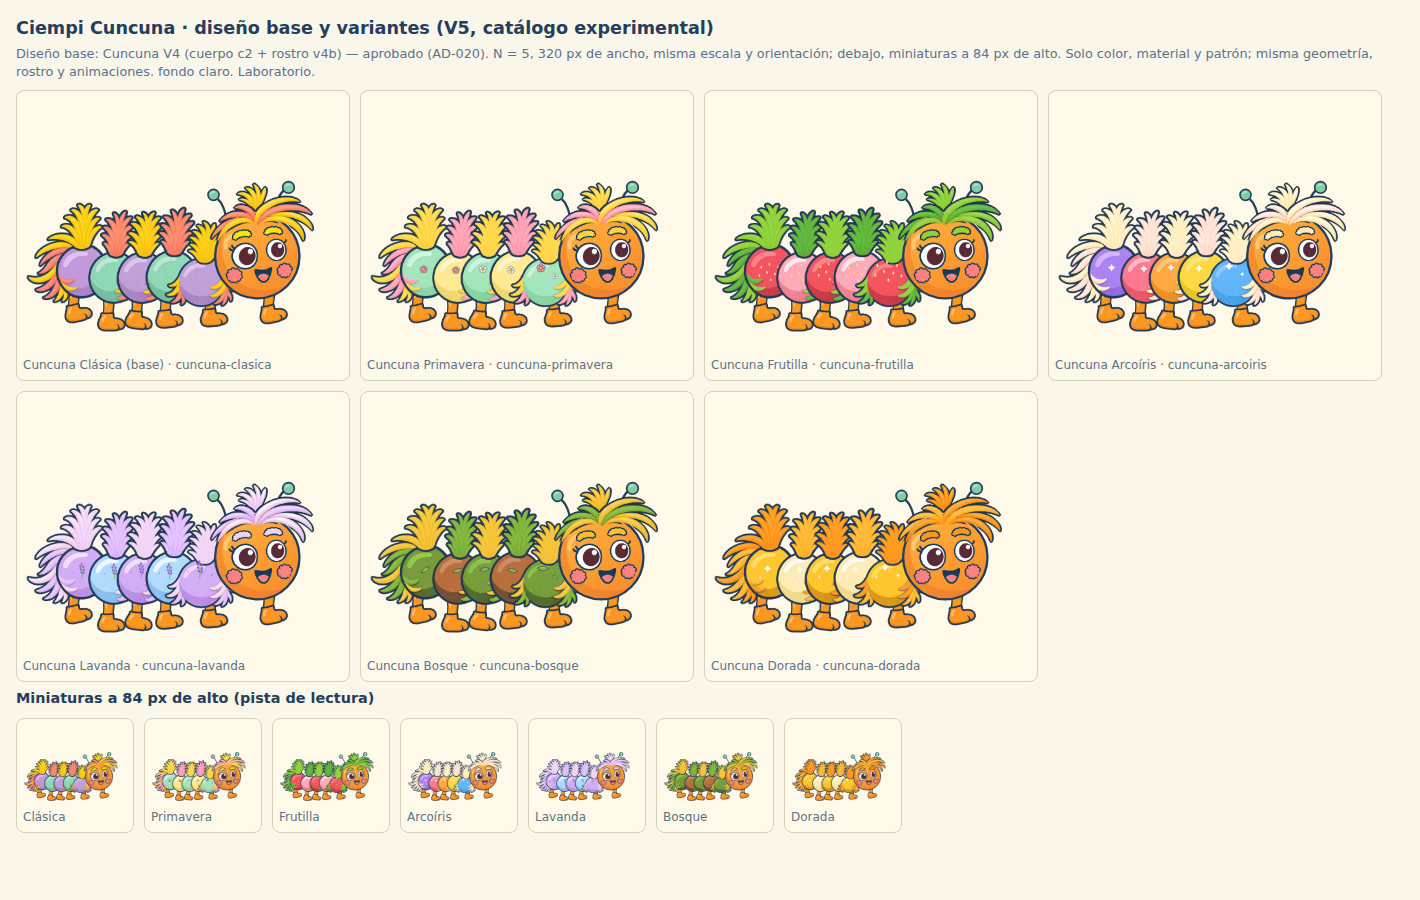
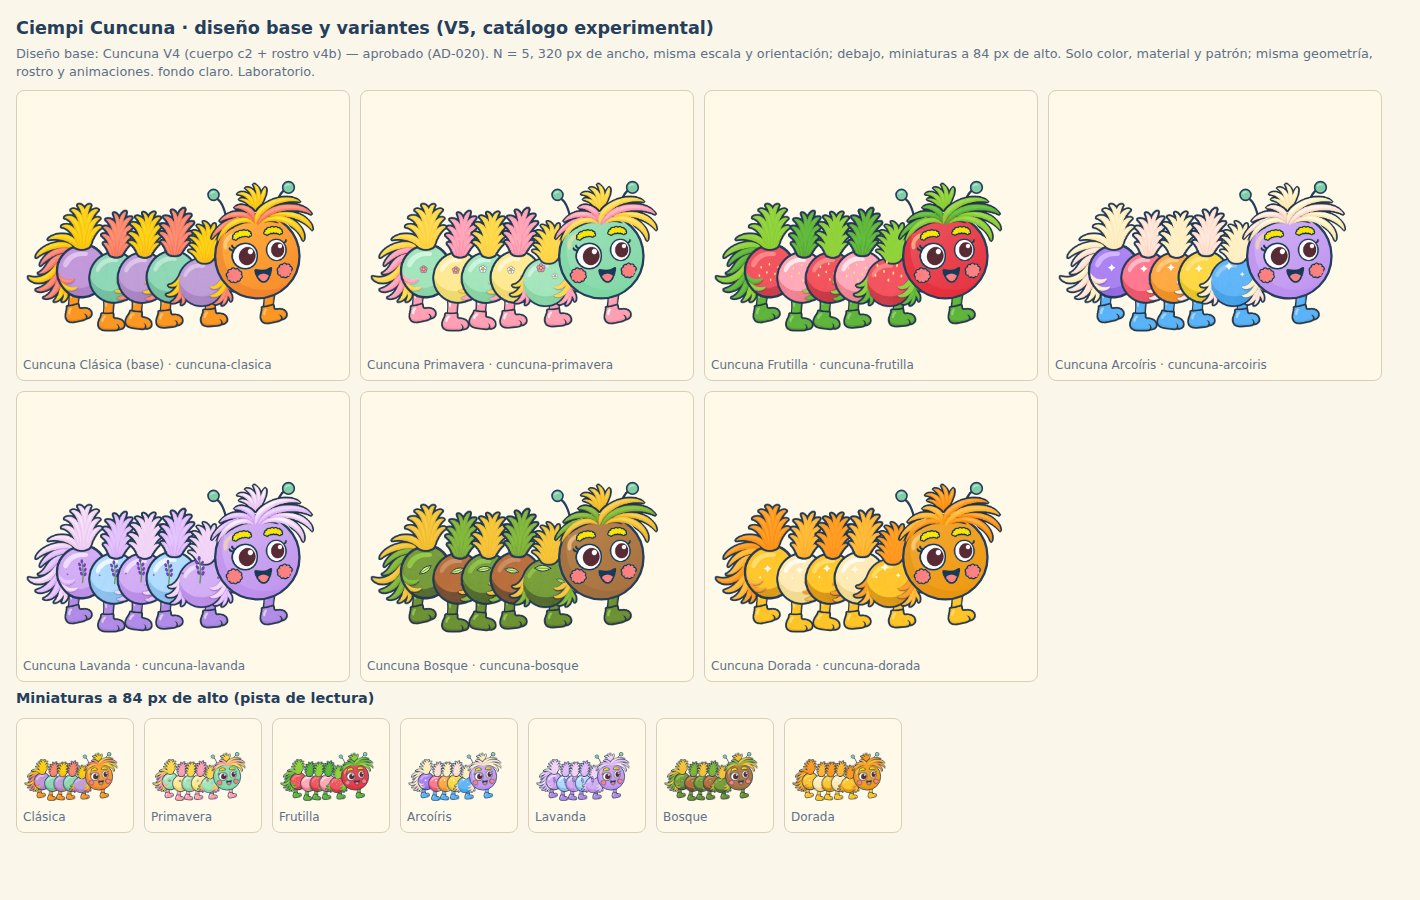
V5 variantes r2: torretas k3 teñidas por variante, cabeza y patas de la Cuncuna teñidas, patrones Bosque/Lavanda reforzados; láminas r1 conservadas

diff --git a/docs/rediseno-ciempi/laboratorio-transformaciones/variantes.js b/docs/rediseno-ciempi/laboratorio-transformaciones/variantes.js
@@ -23,10 +23,12 @@ const BANDAS = {
   cuncuna: [[220, 330, 'lila'], [95, 220, 'menta'], [40, 85, 'amarillo'], [330, 360, 'salmon'], [0, 20, 'salmon'], [20, 40, 'naranja']],
   serpiente: [[15, 45, 'crema', 0.7, 1], [330, 360, 'rojo'], [0, 15, 'rojo'], [15, 80, 'amarillo']],
   camaleon: [[15, 55, 'vientre', 0.72, 1], [300, 360, 'rosa'], [0, 15, 'rosa'], [15, 55, 'amarillo'], [55, 210, 'piel']],
-  torreta: [[300, 360, 'anillo'], [0, 18, 'anillo'], [18, 60, 'borde']],
+  // Torretas k3: anillos rosa/magenta y sus líneas rojas (h < 12) frente al caparazón naranja y el párpado (h 12–60).
+  torreta: [[300, 360, 'anillo'], [0, 12, 'anillo'], [12, 60, 'borde']],
 }
 /** Qué claves se tiñen en el rostro IA v4b (los ojos nunca): hocico y cejas del Dragón, cejas de la Cuncuna. */
-const CLAVES_ROSTRO = { dragon: ['escamas', 'vientre'], cuncuna: ['amarillo'] }
+// La Cuncuna no tiñe nada del rostro: ojos, cejas, mejillas y boca quedan como en el v4b aprobado.
+const CLAVES_ROSTRO = { dragon: ['escamas', 'vientre'], cuncuna: [] }
 /** Colores de la cabeza vectorial de la base (paleta clásica 0–2 y su sombra). */
 const CABEZA_CLASICA = ['#ffb449', '#ff9e32', '#f58b2d', '#e8752b']
 
@@ -69,24 +71,24 @@ export const CATALOGO = {
     variantes: [
       { id: 'cuncuna-clasica', nombre: 'Cuncuna Clásica', base: true, producto: prod('Ciempi Cuncuna'), diferencias: 'Diseño base aprobado: segmentos lila y menta, mechones amarillo y salmón.' },
       { id: 'cuncuna-primavera', nombre: 'Cuncuna Primavera', producto: prod('Transformación Cuncuna Primavera'),
-        colores: { lila: '#9fe3b8', menta: '#ffe98a', amarillo: '#ffd84a', salmon: '#ff9fb4' },
+        colores: { lila: '#9fe3b8', menta: '#ffe98a', amarillo: '#ffd84a', salmon: '#ff9fb4', naranja: '#ff9fb4' }, cabeza: '#8fdcb0',
         patron: { tipo: 'flores', colores: ['#ffffff', '#ff8fb0', '#ffd23a'] }, diferencias: 'Menta y amarillo suave, mechones rosados y florcitas discretas.' },
       { id: 'cuncuna-frutilla', nombre: 'Cuncuna Frutilla', producto: prod('Transformación Cuncuna Frutilla'),
-        colores: { lila: ['#f0505c', '#c1323f'], menta: '#ff9fb0', amarillo: '#8fd03c', salmon: '#5fb23c' },
+        colores: { lila: ['#f0505c', '#c1323f'], menta: '#ff9fb0', amarillo: '#8fd03c', salmon: '#5fb23c', naranja: '#5fb23c' }, cabeza: '#e8434f',
         patron: { tipo: 'semillas', colores: ['#ffe27a'] }, diferencias: 'Rojo frutilla y rosado con pepitas; mechones verdes como hojas.' },
       { id: 'cuncuna-arcoiris', nombre: 'Cuncuna Arcoíris', producto: prod('Transformación Cuncuna Arcoíris'),
-        colores: { amarillo: '#fff0c4', salmon: '#ffe2d2' },
+        colores: { amarillo: '#fff0c4', salmon: '#ffe2d2', naranja: '#5cb2f5' }, cabeza: '#c8a2f2',
         // Orden visible al crecer: cola, B, C, D, A, B… y el frente al final (forma modular: ciclo A,B,C,D tras la cola).
         piezas: { cola: { lila: '#a77ff0' }, 'seg-b': { menta: '#ff6f86' }, 'seg-c': { lila: '#ffa53c' }, 'seg-d': { menta: '#ffd83a' }, 'seg-a': { lila: '#6fd07a' }, frente: { lila: '#5cb2f5' } },
         patron: { tipo: 'destellos', colores: ['#ffffff'], cantidad: 2 }, diferencias: 'Cada segmento de un color del arcoíris, mechones crema.' },
       { id: 'cuncuna-lavanda', nombre: 'Cuncuna Lavanda', producto: prod('Transformación Cuncuna Lavanda'),
-        colores: { lila: '#cfa8f3', menta: '#a9d6fb', amarillo: '#f2d6f6', salmon: '#e0bdfb' },
-        patron: { tipo: 'brotes', colores: ['#8f63d2', '#79b36a'] }, diferencias: 'Lila y celeste pastel con ramitos de lavanda.' },
+        colores: { lila: '#cfa8f3', menta: '#a9d6fb', amarillo: '#f2d6f6', salmon: '#e0bdfb', naranja: '#b08ce6' }, cabeza: '#c9a2f0',
+        patron: { tipo: 'brotes', colores: ['#6f45b8', '#5f9a52'], escala: 1.5 }, diferencias: 'Lila y celeste pastel con ramitos de lavanda.' },
       { id: 'cuncuna-bosque', nombre: 'Cuncuna Bosque', producto: prod('Transformación Cuncuna Bosque'),
-        colores: { lila: ['#73963a', '#4d6b2a'], menta: ['#ad6c3d', '#7a4a2a'], amarillo: '#f2c23a', salmon: '#7fb03c' },
-        patron: { tipo: 'hojas', colores: ['#a6d65c', '#5f8f2e'] }, diferencias: 'Musgo y madera, mechones amarillo cálido y verde, hojitas.' },
+        colores: { lila: ['#73963a', '#4d6b2a'], menta: ['#ad6c3d', '#7a4a2a'], amarillo: '#f2c23a', salmon: '#7fb03c', naranja: '#6b8f34' }, cabeza: '#b07a45',
+        patron: { tipo: 'hojas', colores: ['#d4ef7a', '#5f8f2e'], escala: 1.45 }, diferencias: 'Musgo y madera, mechones amarillo cálido y verde, hojitas.' },
       { id: 'cuncuna-dorada', nombre: 'Cuncuna Dorada', producto: prod('Transformación Cuncuna Dorada'),
-        colores: { lila: ['#ffc425', '#e08a12'], menta: '#ffe9ad', amarillo: '#ff9a1f', salmon: '#ffb631' },
+        colores: { lila: ['#ffc425', '#e08a12'], menta: '#ffe9ad', amarillo: '#ff9a1f', salmon: '#ffb631', naranja: '#ffc425' }, cabeza: '#f0a020',
         patron: { tipo: 'destellos', colores: ['#fffbe6'], cantidad: 3 }, diferencias: 'Oro y crema luminosos, mechones naranja y destellos.' },
     ],
   },
@@ -112,16 +114,16 @@ export const CATALOGO = {
     disenoBase: { id: 'camaleon-v2', nombre: 'Camaleón v2 (cuerpo, patas y boca v2) + ojos k3 «Atardecer»', estado: 'en revisión; ojos k3 elegidos (AD-020)' },
     variantes: [
       { id: 'camaleon-lima', nombre: 'Camaleón Lima', base: true, origen: 'k2a', producto: prod('Transformación Camaleón Lima'),
-        torreta: { borde: '#b6de3e', anillo: '#f06aa8' }, diferencias: 'El diseño actual (k2a): degradado turquesa→lima, casco arcoíris, anillos rosa.' },
+        torreta: { borde: '#b6de3e', anillo: '#2fb5b8' }, diferencias: 'El diseño actual (k2a): degradado turquesa→lima, casco arcoíris, torretas lima con anillos turquesa.' },
       { id: 'camaleon-arcoiris', nombre: 'Camaleón Arcoíris', origen: 'k1', producto: prod('Transformación Camaleón Arcoíris'),
         colores: { rosa: '#fff3c4', amarillo: '#fff3c4' },
         piezas: { cola: { piel: '#f2639a' }, 'seg-a': { piel: '#ff9b3d' }, 'seg-b': { piel: '#f6cf34' }, 'seg-c': { piel: '#6fcf55' }, 'seg-d': { piel: '#33bfb5' }, frente: { piel: '#4fa6ef' },
           casco: { piel: '#6fcf55', rosa: '#f2639a', amarillo: '#ffb43c' } },
-        torreta: { borde: '#b6de3e', anillo: '#ff6f9c' }, diferencias: 'Un color del arcoíris por segmento con lunares crema (k1).' },
+        torreta: { borde: '#b6de3e', anillo: '#4fa6ef' }, diferencias: 'Un color del arcoíris por segmento con lunares crema, torretas con anillos azules (k1).' },
       { id: 'camaleon-tropical', nombre: 'Camaleón Tropical', origen: 'k2', producto: prod('Transformación Camaleón Tropical'),
         colores: { piel: ['#6cc33f', '#3f9636'], rosa: '#ff8a2a', amarillo: '#ffd23a' },
         piezas: { cola: { piel: '#ff8a2a', rosa: '#ffd23a' }, 'cabeza-piel': { piel: '#bde23c' }, casco: { piel: '#7cc943', rosa: '#ff8a2a' } },
-        patron: { tipo: 'franja', colores: ['#fff3b8'] }, torreta: { borde: '#bde23c', anillo: '#3fae3a' }, diferencias: 'Verde selva con manchas naranja, franja ondulada y cola naranja (k2).' },
+        patron: { tipo: 'franja', colores: ['#fff3b8'] }, torreta: { borde: '#bde23c', anillo: '#ff8a2a' }, diferencias: 'Verde selva con manchas naranja, franja ondulada, cola y anillos de las torretas naranja (k2).' },
       { id: 'camaleon-atardecer', nombre: 'Camaleón Atardecer', origen: 'k3', producto: prod('Transformación Camaleón Atardecer'),
         colores: { piel: '#ff8f3a', rosa: '#ffe23d', amarillo: '#ffe23d', vientre: '#c9a6ec' },
         piezas: { cola: { piel: '#d6337a' }, 'seg-a': { piel: '#e9457a' }, 'seg-b': { piel: '#f45f68' }, 'seg-c': { piel: '#fb7656' }, 'seg-d': { piel: '#f45f68' }, frente: { piel: '#ff8540' },
@@ -130,7 +132,7 @@ export const CATALOGO = {
       { id: 'camaleon-pastel', nombre: 'Camaleón Pastel', origen: 'k4', producto: prod('Transformación Camaleón Pastel'),
         colores: { piel: '#a9e3c8', rosa: '#fff6e0', amarillo: '#fff6e0', vientre: '#9fcdf4' },
         piezas: { cola: { piel: '#c3a6ec' }, 'seg-a': { piel: '#a9e3c8' }, 'seg-b': { piel: '#a8d2f5' }, 'seg-c': { piel: '#c9b2ef' }, 'seg-d': { piel: '#a8d2f5' }, casco: { piel: '#c9b2ef' } },
-        patron: { tipo: 'nubes', colores: ['#fff8e8'] }, torreta: { borde: '#a9e3c8', anillo: '#9cc8f2' }, diferencias: 'Menta, celeste y lila pastel con nubes crema (k4).' },
+        patron: { tipo: 'nubes', colores: ['#fff8e8'] }, torreta: { borde: '#a9e3c8', anillo: '#c3a6ec' }, diferencias: 'Menta, celeste y lila pastel con nubes crema y anillos lila (k4).' },
     ],
   },
 }
@@ -392,7 +394,9 @@ export function aplicarPatronBase(doc, v) {
     const r = Number(g?.getAttribute('data-nucleo'))
     if (!g || !r) return
     const nucleo = [...g.children].find((n) => n.localName === 'g' && n.getAttribute('clip-path') === `url(#clip-${id})`)
-    const frag = new DOMParser().parseFromString(`<svg xmlns="${NS}"><g clip-path="url(#clip-${id})" data-patron-variante="${v.patron.tipo}">${patronSVG(v.patron, r - 3, rol)}</g></svg>`, 'image/svg+xml')
+    const k = v.patron.escala || 1, cy = n2(-0.3 * (r - 3))
+    const dentro = k === 1 ? patronSVG(v.patron, r - 3, rol) : `<g transform="translate(0 ${cy}) scale(${k}) translate(0 ${-cy})">${patronSVG(v.patron, r - 3, rol)}</g>`
+    const frag = new DOMParser().parseFromString(`<svg xmlns="${NS}"><g clip-path="url(#clip-${id})" data-patron-variante="${v.patron.tipo}">${dentro}</g></svg>`, 'image/svg+xml')
     const capa = doc.importNode(frag.documentElement.firstChild, true)
     g.insertBefore(capa, nucleo ?? null)
   })

diff --git a/docs/rediseno-ciempi/revisiones/V5-variantes/catalogo-variantes.md b/docs/rediseno-ciempi/revisiones/V5-variantes/catalogo-variantes.md
@@ -12,22 +12,22 @@ Fuente de datos: [`variantes.js`](../../laboratorio-transformaciones/variantes.j
 | Ciempi Dragón | `dragon-v4` | `dragon-blanco` | Dragón Blanco | Transformación Dragón Blanco | Blanco cálido con sombras lavanda, púas doradas y escamas de nácar. | experimental |
 | Ciempi Dragón | `dragon-v4` | `dragon-esmeralda` | Dragón Esmeralda | Transformación Dragón Esmeralda | Verde esmeralda, púas doradas y una gema facetada por segmento. | experimental |
 | Ciempi Cuncuna | `cuncuna-v4` | `cuncuna-clasica` | Cuncuna Clásica | Ciempi Cuncuna | Diseño base aprobado: segmentos lila y menta, mechones amarillo y salmón. | aprobado (AD-020) |
-| Ciempi Cuncuna | `cuncuna-v4` | `cuncuna-primavera` | Cuncuna Primavera | Transformación Cuncuna Primavera | Menta y amarillo suave, mechones rosados y florcitas discretas. | experimental |
-| Ciempi Cuncuna | `cuncuna-v4` | `cuncuna-frutilla` | Cuncuna Frutilla | Transformación Cuncuna Frutilla | Rojo frutilla y rosado con pepitas; mechones verdes como hojas. | experimental |
-| Ciempi Cuncuna | `cuncuna-v4` | `cuncuna-arcoiris` | Cuncuna Arcoíris | Transformación Cuncuna Arcoíris | Cada segmento de un color del arcoíris, mechones crema. | experimental |
-| Ciempi Cuncuna | `cuncuna-v4` | `cuncuna-lavanda` | Cuncuna Lavanda | Transformación Cuncuna Lavanda | Lila y celeste pastel con ramitos de lavanda. | experimental |
-| Ciempi Cuncuna | `cuncuna-v4` | `cuncuna-bosque` | Cuncuna Bosque | Transformación Cuncuna Bosque | Musgo y madera, mechones amarillo cálido y verde, hojitas. | experimental |
-| Ciempi Cuncuna | `cuncuna-v4` | `cuncuna-dorada` | Cuncuna Dorada | Transformación Cuncuna Dorada | Oro y crema luminosos, mechones naranja y destellos. | experimental |
+| Ciempi Cuncuna | `cuncuna-v4` | `cuncuna-primavera` | Cuncuna Primavera | Transformación Cuncuna Primavera | Menta y amarillo suave, mechones rosados y florcitas discretas. Cabeza menta, patas rosadas. | experimental |
+| Ciempi Cuncuna | `cuncuna-v4` | `cuncuna-frutilla` | Cuncuna Frutilla | Transformación Cuncuna Frutilla | Rojo frutilla y rosado con pepitas; mechones verdes como hojas. Cabeza roja, patas verdes. | experimental |
+| Ciempi Cuncuna | `cuncuna-v4` | `cuncuna-arcoiris` | Cuncuna Arcoíris | Transformación Cuncuna Arcoíris | Cada segmento de un color del arcoíris, mechones crema. Cabeza lila, patas azules. | experimental |
+| Ciempi Cuncuna | `cuncuna-v4` | `cuncuna-lavanda` | Cuncuna Lavanda | Transformación Cuncuna Lavanda | Lila y celeste pastel con ramitos de lavanda. Cabeza lila, patas lavanda. | experimental |
+| Ciempi Cuncuna | `cuncuna-v4` | `cuncuna-bosque` | Cuncuna Bosque | Transformación Cuncuna Bosque | Musgo y madera, mechones amarillo cálido y verde, hojitas. Cabeza madera, patas musgo. | experimental |
+| Ciempi Cuncuna | `cuncuna-v4` | `cuncuna-dorada` | Cuncuna Dorada | Transformación Cuncuna Dorada | Oro y crema luminosos, mechones naranja y destellos. Cabeza ámbar, patas doradas. | experimental |
 | Ciempi Serpiente | `serpiente-s2` | `serpiente-caramelo` | Serpiente Caramelo | Transformación Serpiente Caramelo | Diseño s2: rojo y amarillo alternos, vientre crema, punta de corazón. | diseño base · s2 |
 | Ciempi Serpiente | `serpiente-s2` | `serpiente-jardin` | Serpiente Jardín | Transformación Serpiente Jardín | Verdes de jardín alternos con un rombo amarillo por segmento (s1). | experimental · s1 |
 | Ciempi Serpiente | `serpiente-s2` | `serpiente-noche` | Serpiente Noche | Transformación Serpiente Noche | Azul y morado con estrellitas crema, vientre lavanda (s3). | experimental · s3 |
 | Ciempi Serpiente | `serpiente-s2` | `serpiente-hoja` | Serpiente Hoja | Transformación Serpiente Hoja | Turquesa con franja en zigzag lima (s4). | experimental · s4 |
-| Ciempi Camaleón | `camaleon-v2` | `camaleon-lima` | Camaleón Lima | Transformación Camaleón Lima | El diseño actual (k2a): degradado turquesa→lima, casco arcoíris, anillos rosa. | diseño base · k2a |
-| Ciempi Camaleón | `camaleon-v2` | `camaleon-arcoiris` | Camaleón Arcoíris | Transformación Camaleón Arcoíris | Un color del arcoíris por segmento con lunares crema (k1). | experimental · k1 |
-| Ciempi Camaleón | `camaleon-v2` | `camaleon-tropical` | Camaleón Tropical | Transformación Camaleón Tropical | Verde selva con manchas naranja, franja ondulada y cola naranja (k2). | experimental · k2 |
+| Ciempi Camaleón | `camaleon-v2` | `camaleon-lima` | Camaleón Lima | Transformación Camaleón Lima | El diseño actual (k2a): degradado turquesa→lima, casco arcoíris, torretas lima con anillos turquesa. | diseño base · k2a |
+| Ciempi Camaleón | `camaleon-v2` | `camaleon-arcoiris` | Camaleón Arcoíris | Transformación Camaleón Arcoíris | Un color del arcoíris por segmento con lunares crema, torretas con anillos azules (k1). | experimental · k1 |
+| Ciempi Camaleón | `camaleon-v2` | `camaleon-tropical` | Camaleón Tropical | Transformación Camaleón Tropical | Verde selva con manchas naranja, franja ondulada, cola y anillos de las torretas naranja (k2). | experimental · k2 |
 | Ciempi Camaleón | `camaleon-v2` | `camaleon-atardecer` | Camaleón Atardecer | Transformación Camaleón Atardecer | Magenta→naranja como un atardecer, pecas amarillas y vientre lavanda (k3). | experimental · k3 |
-| Ciempi Camaleón | `camaleon-v2` | `camaleon-pastel` | Camaleón Pastel | Transformación Camaleón Pastel | Menta, celeste y lila pastel con nubes crema (k4). | experimental · k4 |
+| Ciempi Camaleón | `camaleon-v2` | `camaleon-pastel` | Camaleón Pastel | Transformación Camaleón Pastel | Menta, celeste y lila pastel con nubes crema y anillos lila (k4). | experimental · k4 |
 
 Propuestas de rostro de la Serpiente **s2b «barbilla»** y **s2c «gota»**: conservadas como imágenes en `T03-serpiente-v2/ia/`; no son variantes seleccionables (ver PENDIENTES).
 
-Láminas: [dragones](lamina-dragones.png) · [cuncunas](lamina-cuncunas.png) · [serpientes](lamina-serpientes.png) · [camaleones](lamina-camaleones.png). IA de color: [`ia/`](ia/) (`generaciones.json`).
+Láminas: [dragones](lamina-dragones.png) · [cuncunas](lamina-cuncunas.png) · [serpientes](lamina-serpientes.png) · [camaleones](lamina-camaleones.png). Ronda anterior (r1, antes de teñir torretas y cabeza/patas de Cuncuna): [cuncunas-r1](lamina-cuncunas-r1.png) · [camaleones-r1](lamina-camaleones-r1.png). IA de color: [`ia/`](ia/) (`generaciones.json`).

diff --git a/docs/rediseno-ciempi/revisiones/V5-variantes/PENDIENTES.md b/docs/rediseno-ciempi/revisiones/V5-variantes/PENDIENTES.md
@@ -3,7 +3,12 @@
 Revisión del agente, no aprobación: ninguna variante nueva está aprobada.
 
 ## Problemas encontrados
-- **Patrones pequeños en Cuncuna.** A 320 px las hojitas de Bosque y los ramitos de Lavanda se ven poco, y a 84 px desaparecen. En esos casos la variante se reconoce solo por el color. Falta decidir si se agrandan o si se aceptan como «discretos».
+- **Corrección r2:**
+  - Las torretas k3 se tiñen por variante (anillos y párpado). Atardecer conserva los colores originales.
+  - La Cuncuna tiñe ya el disco de la cabeza y las patas. La base y su rostro v4b no cambian: ojos, cejas, mejillas y boca quedan sin teñir.
+  - Los patrones de Bosque y Lavanda se agrandaron (×1,45 y ×1,5) y se oscurecieron.
+- **Patrones en Cuncuna a 84 px.** Las hojitas de Bosque y los ramitos de Lavanda se ven a 320 px, pero a 84 px apenas se distinguen. A ese tamaño, la variante se reconoce sobre todo por el color.
+- **Contraste de la cabeza en Cuncuna.** En Dorada (ámbar) la cabeza queda cerca del naranja de la base, y las cejas amarillas contrastan menos. En Frutilla (cabeza roja), las mejillas rosadas siguen leyéndose.
 - **Rostro teñido.** En Hielo y Blanco, el hocico toma el color del vientre (celeste) y la cara pierde algo de contraste. En Nocturno, en cambio, el hocico se dejó crema a propósito para que se lea.
 - **Orejas y cuernos.** Las orejas del Dragón siguen el color de las escamas, mientras que en la IA quedaban menta. Es una decisión mía y se puede revisar.
 - **Ojos k3 (Camaleón):**
